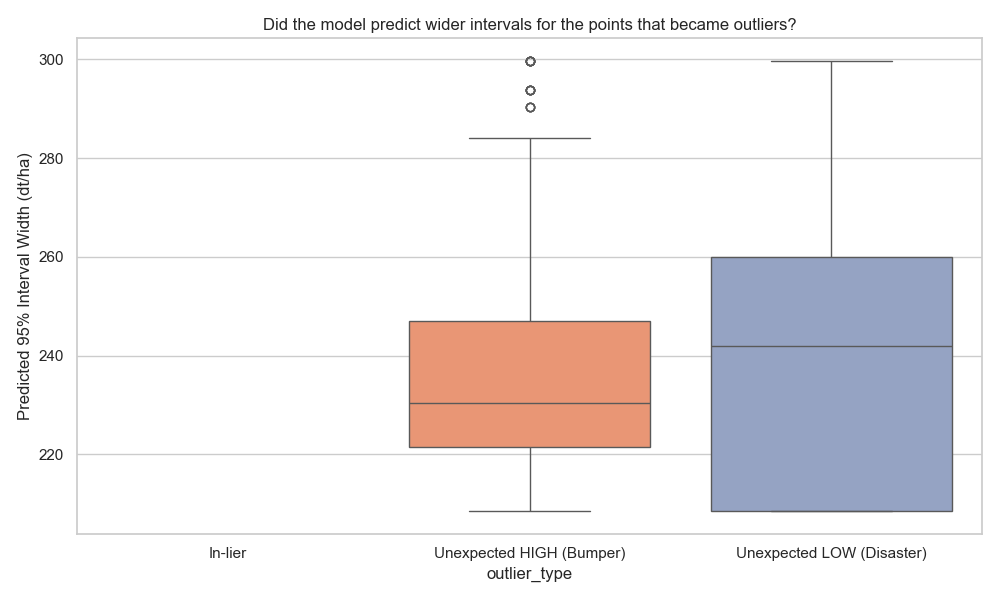
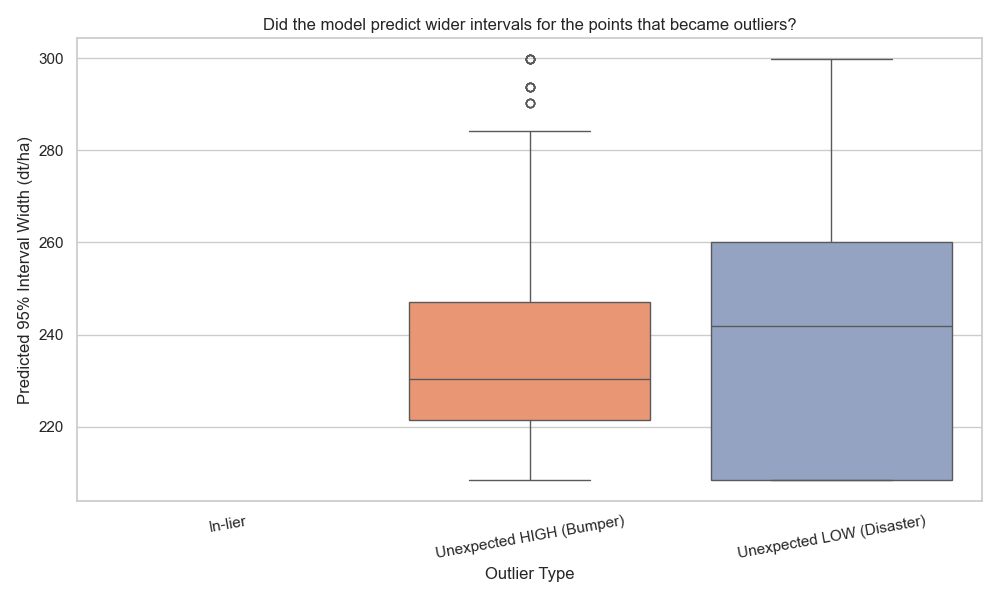
model is actually decent but i dont trust it at all

diff --git a/src/03_analysis/analyze_outliers.py b/src/03_analysis/analyze_outliers.py
@@ -38,6 +38,10 @@ def load_and_merge_data():
     backtested_years = outliers_df['year'].unique()
     master_df = features_df[features_df['year'].isin(backtested_years)].copy()
 
+    if 'kreisYield' not in master_df.columns:
+        print("Warning: 'kreisYield' not found in features file. Directional analysis might be incomplete.")
+        master_df['kreisYield'] = np.nan
+
     master_df = pd.merge(master_df, outliers_df[
         ['district_no', 'year', 'predicted_yield_lower', 'predicted_yield_median', 'predicted_yield_upper',
          'is_outside_interval']],
@@ -48,7 +52,7 @@ def load_and_merge_data():
 
     def get_outlier_type(row):
         if not row['is_outside_interval']: return 'In-lier'
-        if 'kreisYield' in row:
+        if pd.notna(row['kreisYield']):
             if row['kreisYield'] < row['predicted_yield_lower']: return 'Unexpected LOW (Disaster)'
             if row['kreisYield'] > row['predicted_yield_upper']: return 'Unexpected HIGH (Bumper)'
         return 'Outlier (Unknown Dir)'
@@ -61,7 +65,10 @@ def load_and_merge_data():
 
 
 def analyze_temporal_patterns(df):
-    """Checks if specific years are responsible for the majority of outliers."""
+    """
+    Checks if specific years are responsible for the majority of outliers
+    and returns the top 5 worst years.
+    """
     print("Analyzing Temporal Patterns...")
     yearly_stats = df.groupby('year').agg(
         total_districts=('district_no', 'count'),
@@ -78,10 +85,13 @@ def analyze_temporal_patterns(df):
     plt.axhline(5, color='black', linestyle='--', label='Target Outlier Rate (5%)')
     plt.title("Percentage of Districts Outside 95% Prediction Interval by Year")
     plt.ylabel("Outlier Rate (%)")
+    plt.xlabel("Year")
     plt.legend()
     plt.tight_layout()
     plt.savefig(os.path.join(REPORT_DIR, '01_outlier_rate_by_year.png'))
     plt.close()
+
+    return yearly_stats.head(5).index.tolist()
 
 
 def analyze_directional_bias(df):
@@ -89,12 +99,13 @@ def analyze_directional_bias(df):
     print("Analyzing Directional Bias...")
     outliers_only = df[df['is_outside_interval']]
     bias_counts = outliers_only['outlier_type'].value_counts()
+    bias_counts = bias_counts[bias_counts.index.str.contains("Unexpected")]
 
     print("Outlier Breakdown by Direction:")
     print(bias_counts)
 
     plt.figure(figsize=(8, 8))
-    plt.pie(bias_counts, labels=bias_counts.index, autopct='%1.1f%%', colors=['tomato', 'skyblue'])
+    plt.pie(bias_counts, labels=bias_counts.index, autopct='%1.1f%%', colors=['tomato', 'skyblue', 'lightgreen'])
     plt.title("Directional Bias of Outliers")
     plt.tight_layout()
     plt.savefig(os.path.join(REPORT_DIR, '02_outlier_directional_bias.png'))
@@ -110,6 +121,8 @@ def analyze_uncertainty_awareness(df):
     sns.boxplot(data=df, x='outlier_type', y='interval_width', palette='Set2')
     plt.title("Did the model predict wider intervals for the points that became outliers?")
     plt.ylabel("Predicted 95% Interval Width (dt/ha)")
+    plt.xlabel("Outlier Type")
+    plt.xticks(rotation=10)
     plt.tight_layout()
     plt.savefig(os.path.join(REPORT_DIR, '03_interval_width_comparison.png'))
     plt.close()
@@ -127,13 +140,15 @@ def analyze_uncertainty_awareness(df):
 def analyze_feature_differences(df):
     """Compares feature distributions for outliers vs in-liers to find blind spots."""
     print("Analyzing Feature Differences (Outlier vs In-lier)...")
-
     plot_data = df.melt(id_vars=['status', 'outlier_type'], value_vars=KEY_FEATURES,
                         var_name='Feature', value_name='Value')
 
     g = sns.FacetGrid(plot_data, col="Feature", col_wrap=3, sharex=False, sharey=False, height=4)
     g.map_dataframe(sns.violinplot, x="status", y="Value", palette={"In-lier": "grey", "Outlier": "red"}, alpha=0.6)
-    g.add_legend()
+    g.fig.legend(handles=[plt.Rectangle((0, 0), 1, 1, color='grey', alpha=0.6),
+                          plt.Rectangle((0, 0), 1, 1, color='red', alpha=0.6)],
+                 labels=['In-lier', 'Outlier'],
+                 loc='upper right')
     plt.subplots_adjust(top=0.9)
     g.fig.suptitle("Feature Distributions: Do Outliers have extreme input values?")
     plt.savefig(os.path.join(REPORT_DIR, '04_feature_forensics.png'))
@@ -141,14 +156,78 @@ def analyze_feature_differences(df):
     print("Feature forensics plots saved.")
 
 
+def analyze_worst_years_bias(df, worst_years_list):
+    """Creates a new graph showing outlier direction, count, and percentage for the worst years."""
+    print(f"Analyzing Directional Bias for Worst Years: {worst_years_list}...")
+
+    # Get total counts for each of the worst years for percentage calculation
+    total_counts_per_year = df[df['year'].isin(worst_years_list)].groupby('year')['district_no'].count()
+
+    # Filter for directional outliers in the specified worst years
+    worst_years_df = df[df['year'].isin(worst_years_list) & (df['status'] == 'Outlier')]
+    directional_outliers = worst_years_df[worst_years_df['outlier_type'].str.contains("Unexpected")]
+
+    if directional_outliers.empty:
+        print("No directional outliers found for the specified worst years. Skipping plot.")
+        return
+
+    plt.figure(figsize=(14, 8))
+    ax = sns.countplot(data=directional_outliers, x='year', hue='outlier_type',
+                       order=sorted(worst_years_list),
+                       palette={'Unexpected LOW (Disaster)': 'tomato', 'Unexpected HIGH (Bumper)': 'skyblue'})
+
+    # --- Add new annotations (count and percentage) and update x-axis labels ---
+
+    # 1. Update x-axis tick labels to include total counts
+    new_labels = []
+    for tick_label in ax.get_xticklabels():
+        year = int(tick_label.get_text())
+        total_count = total_counts_per_year.get(year, 0)
+        new_labels.append(f'{year}\n(N={total_count})')
+    ax.set_xticklabels(new_labels)
+
+    # 2. Add count and percentage labels to each bar
+    for p in ax.patches:
+        height = p.get_height()
+        if height == 0: continue
+
+        # Get the year for the current bar
+        year_str = p.get_x() + p.get_width() / 2.
+        year = sorted(worst_years_list)[int(np.round(year_str))]
+
+        total_for_year = total_counts_per_year[year]
+        percentage = (height / total_for_year) * 100
+
+        # Format the label string
+        label = f'{int(height)}\n({percentage:.1f}%)'
+
+        ax.annotate(label, (p.get_x() + p.get_width() / 2., height),
+                    ha='center', va='center', fontsize=10, color='black',
+                    xytext=(0, 9), textcoords='offset points')
+
+    plt.title('Direction of Prediction Errors in 5 Worst-Performing Years')
+    plt.ylabel('Number of Outlier Districts')
+    plt.xlabel('Year\n(Total Forecasts)')
+    plt.legend(title='Error Type')
+    plt.ylim(top=ax.get_ylim()[1] * 1.15)  # Adjust y-limit to make space for labels
+
+    plt.tight_layout()
+    plt.savefig(os.path.join(REPORT_DIR, '05_worst_years_directional_bias.png'))
+    plt.close()
+    print("Worst years directional bias plot saved.")
+
+
 def main():
     print("Starting Outlier Deep-Dive Analysis")
     master_df = load_and_merge_data()
 
-    analyze_temporal_patterns(master_df)
+    worst_5_years = analyze_temporal_patterns(master_df)
+
     analyze_directional_bias(master_df)
     analyze_uncertainty_awareness(master_df)
     analyze_feature_differences(master_df)
+
+    analyze_worst_years_bias(master_df, worst_5_years)
 
     print(f"\nAnalysis complete. Check reports in: {REPORT_DIR}")
 
